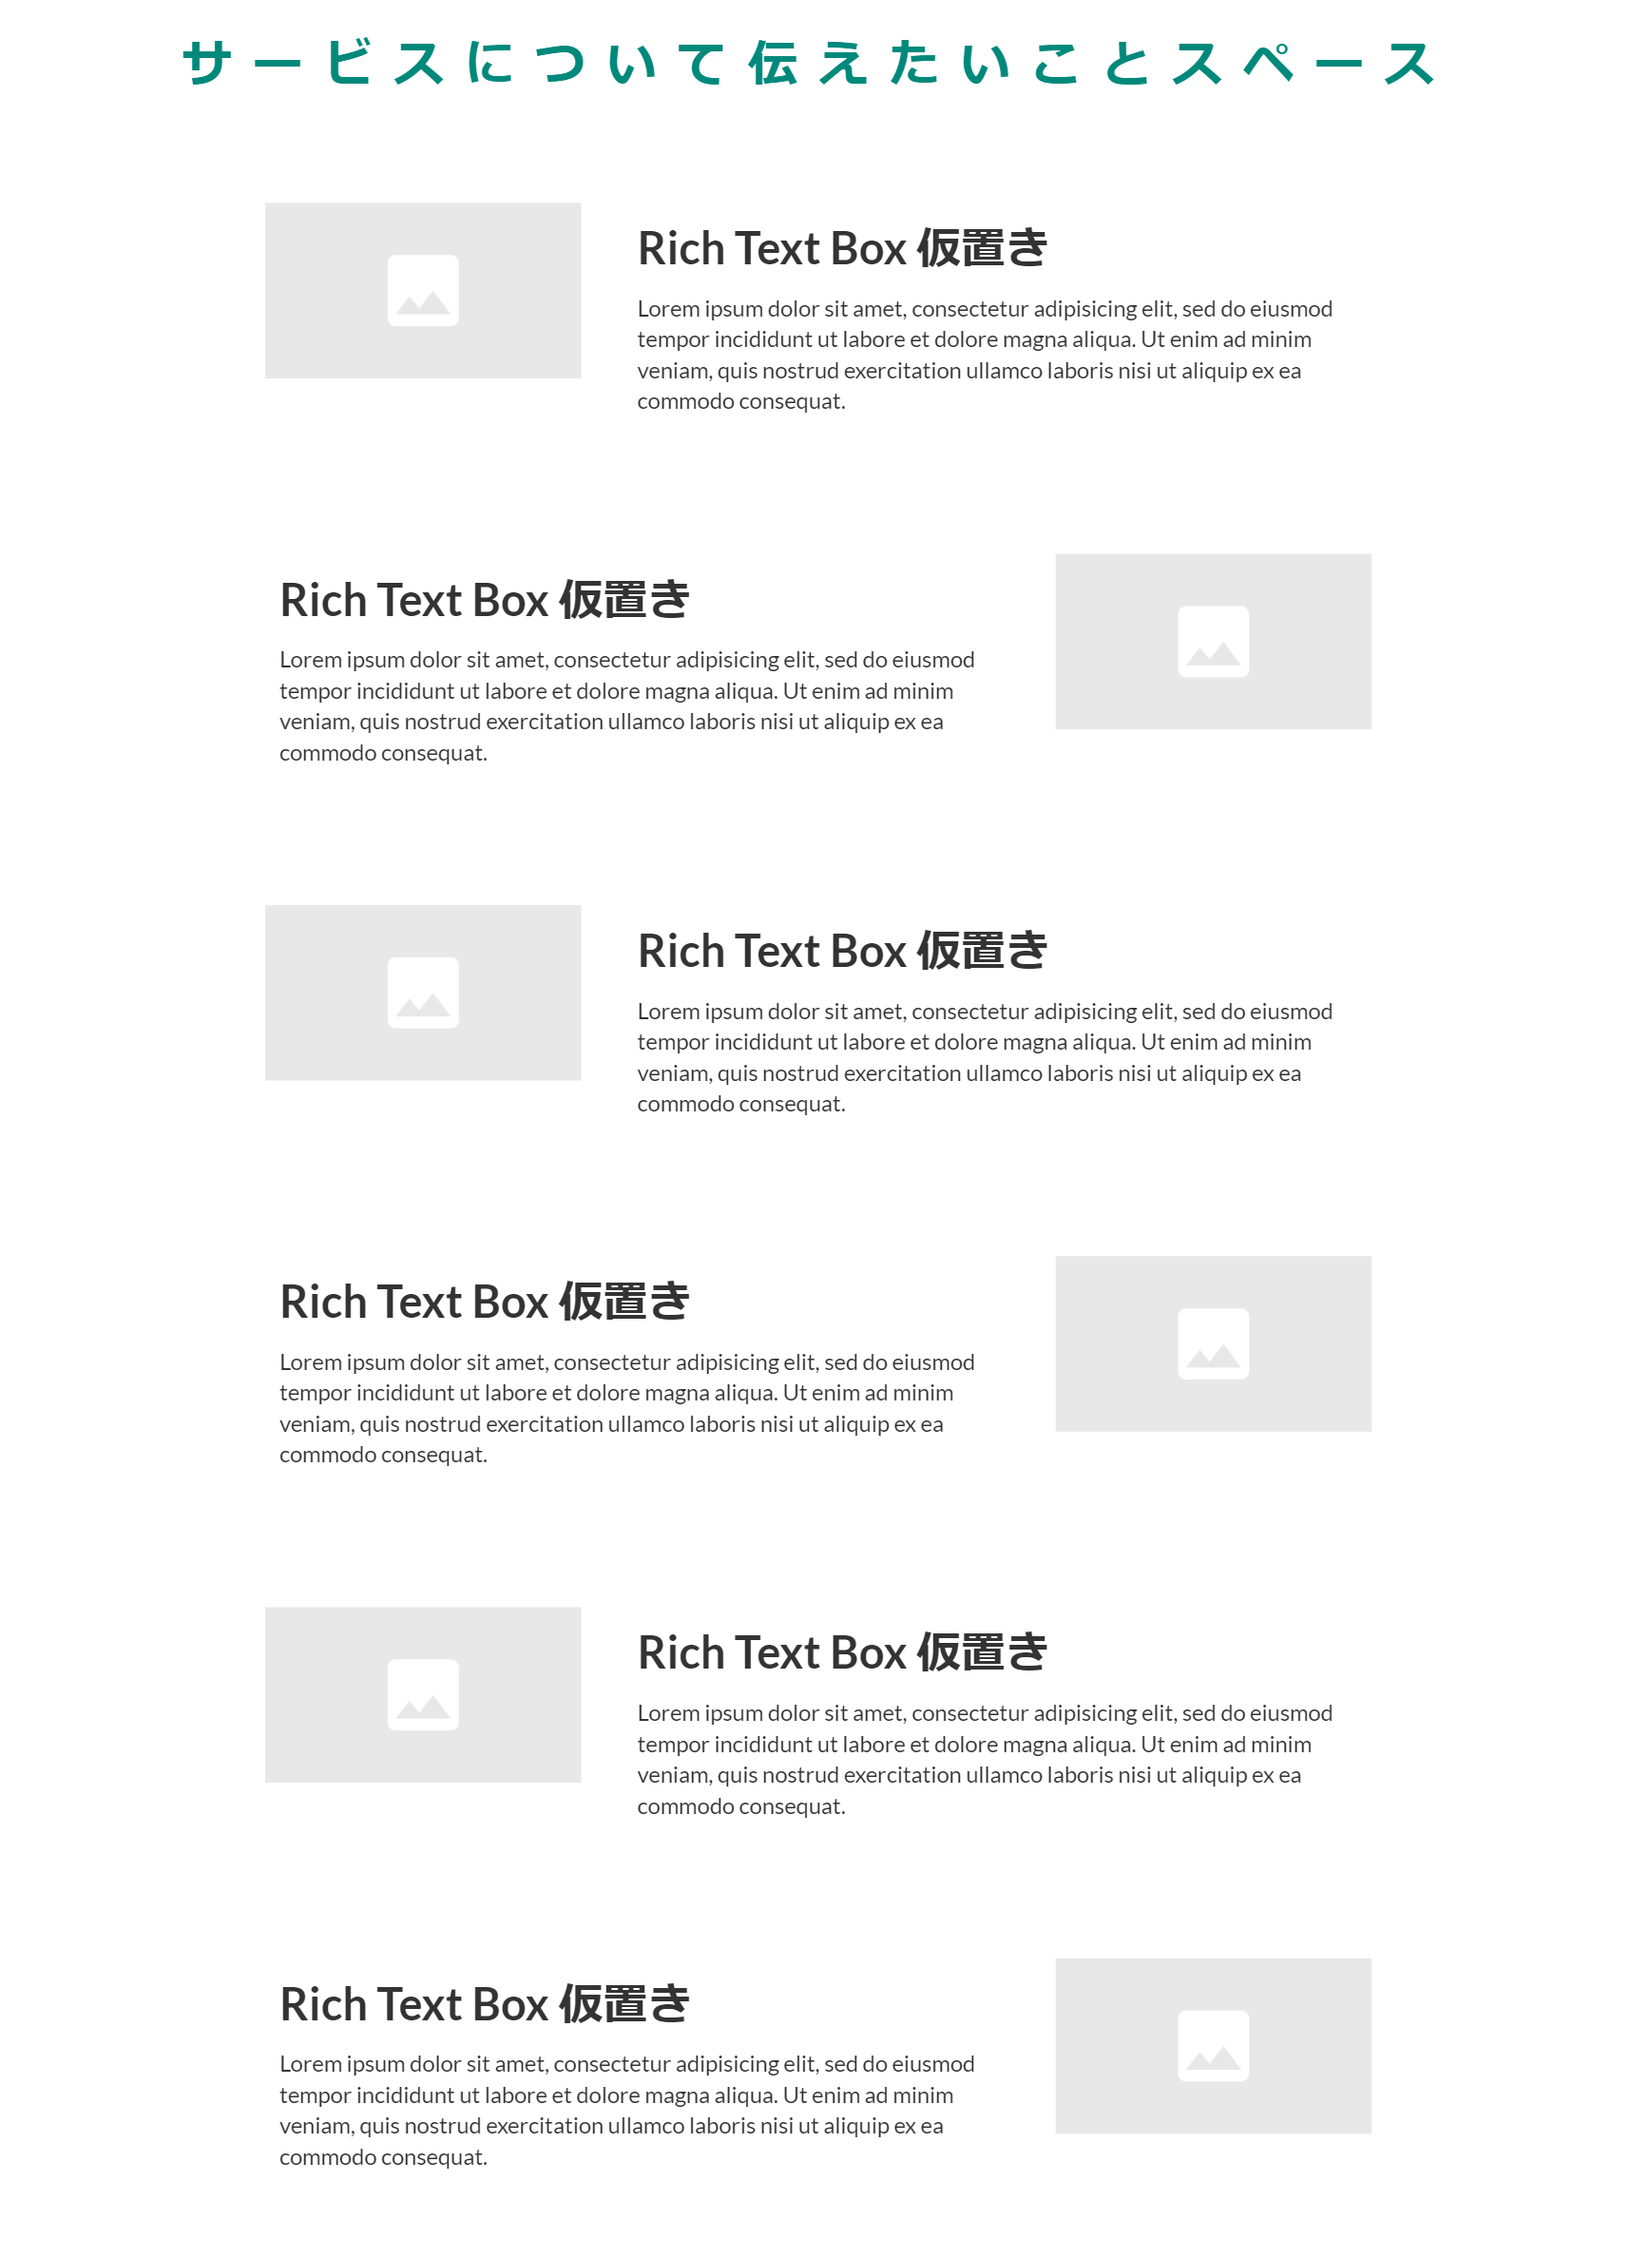
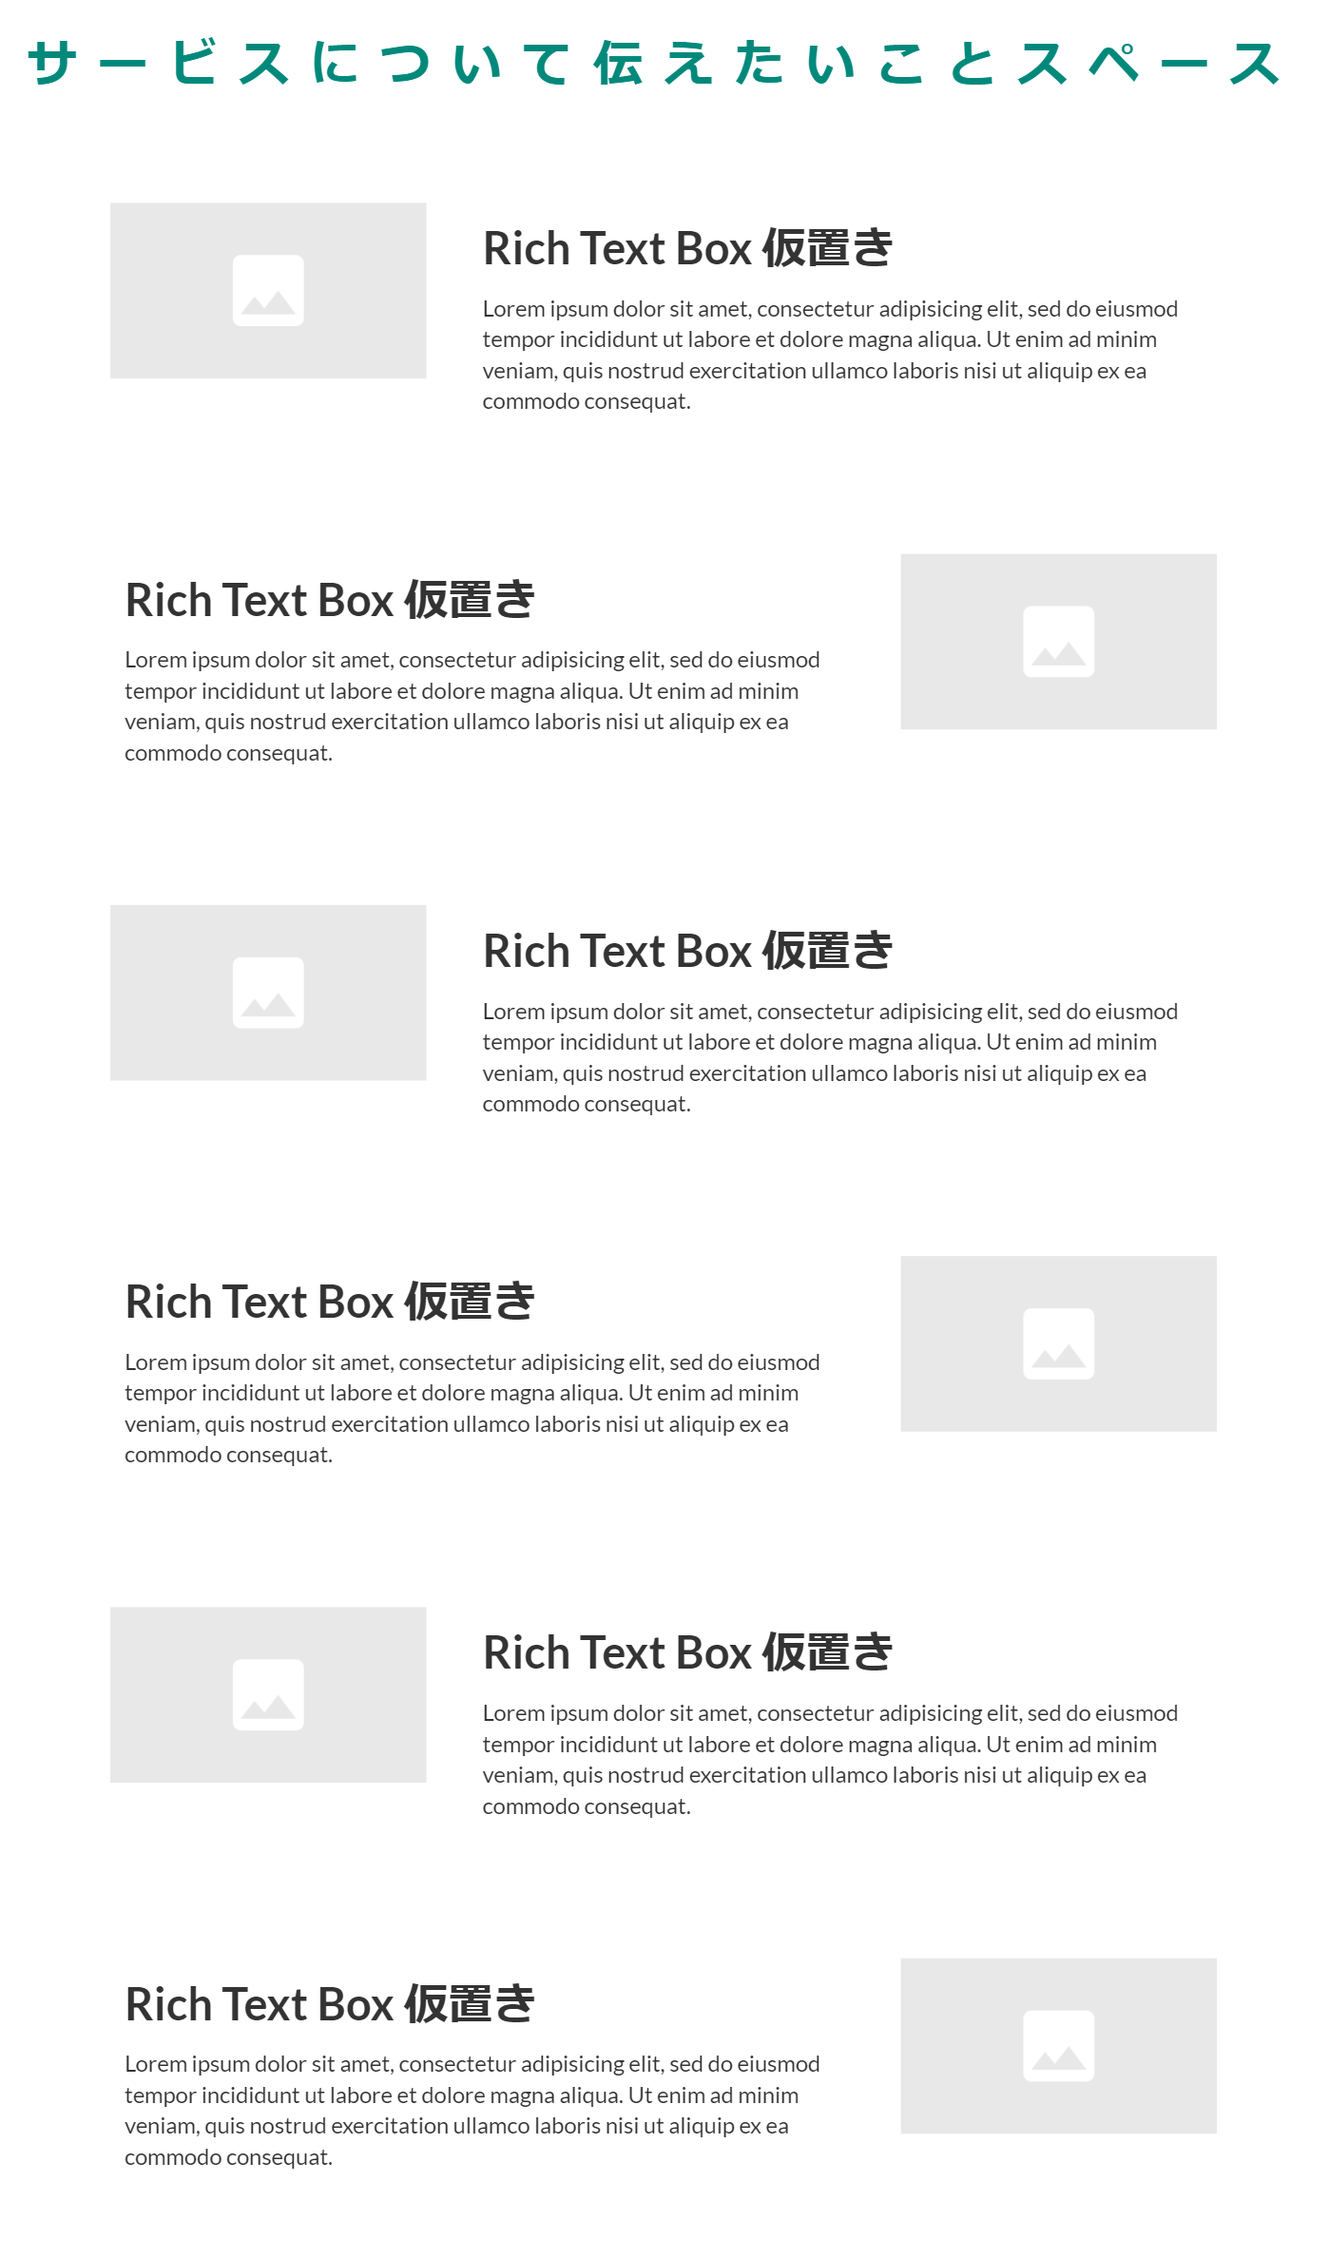
トップページの見た目調整

diff --git a/pages/index.vue b/pages/index.vue
@@ -8,7 +8,8 @@
           </h1>
           <div class="intro">
             <p>
-              シフト管理をもっと楽に。
+              ようこそ、SHIFSHELへ。<br />
+              従来のシフト管理方法に加え、便利機能を追加しました。
             </p>
           </div>
           <div class="buttons">
@@ -181,5 +182,11 @@ header .title {
 .demo-img {
   padding-top: 50px;
   width: 100%;
+}
+
+@media screen and (max-width: 767px) {
+  .container {
+    width: 100%;
+  }
 }
 </style>
